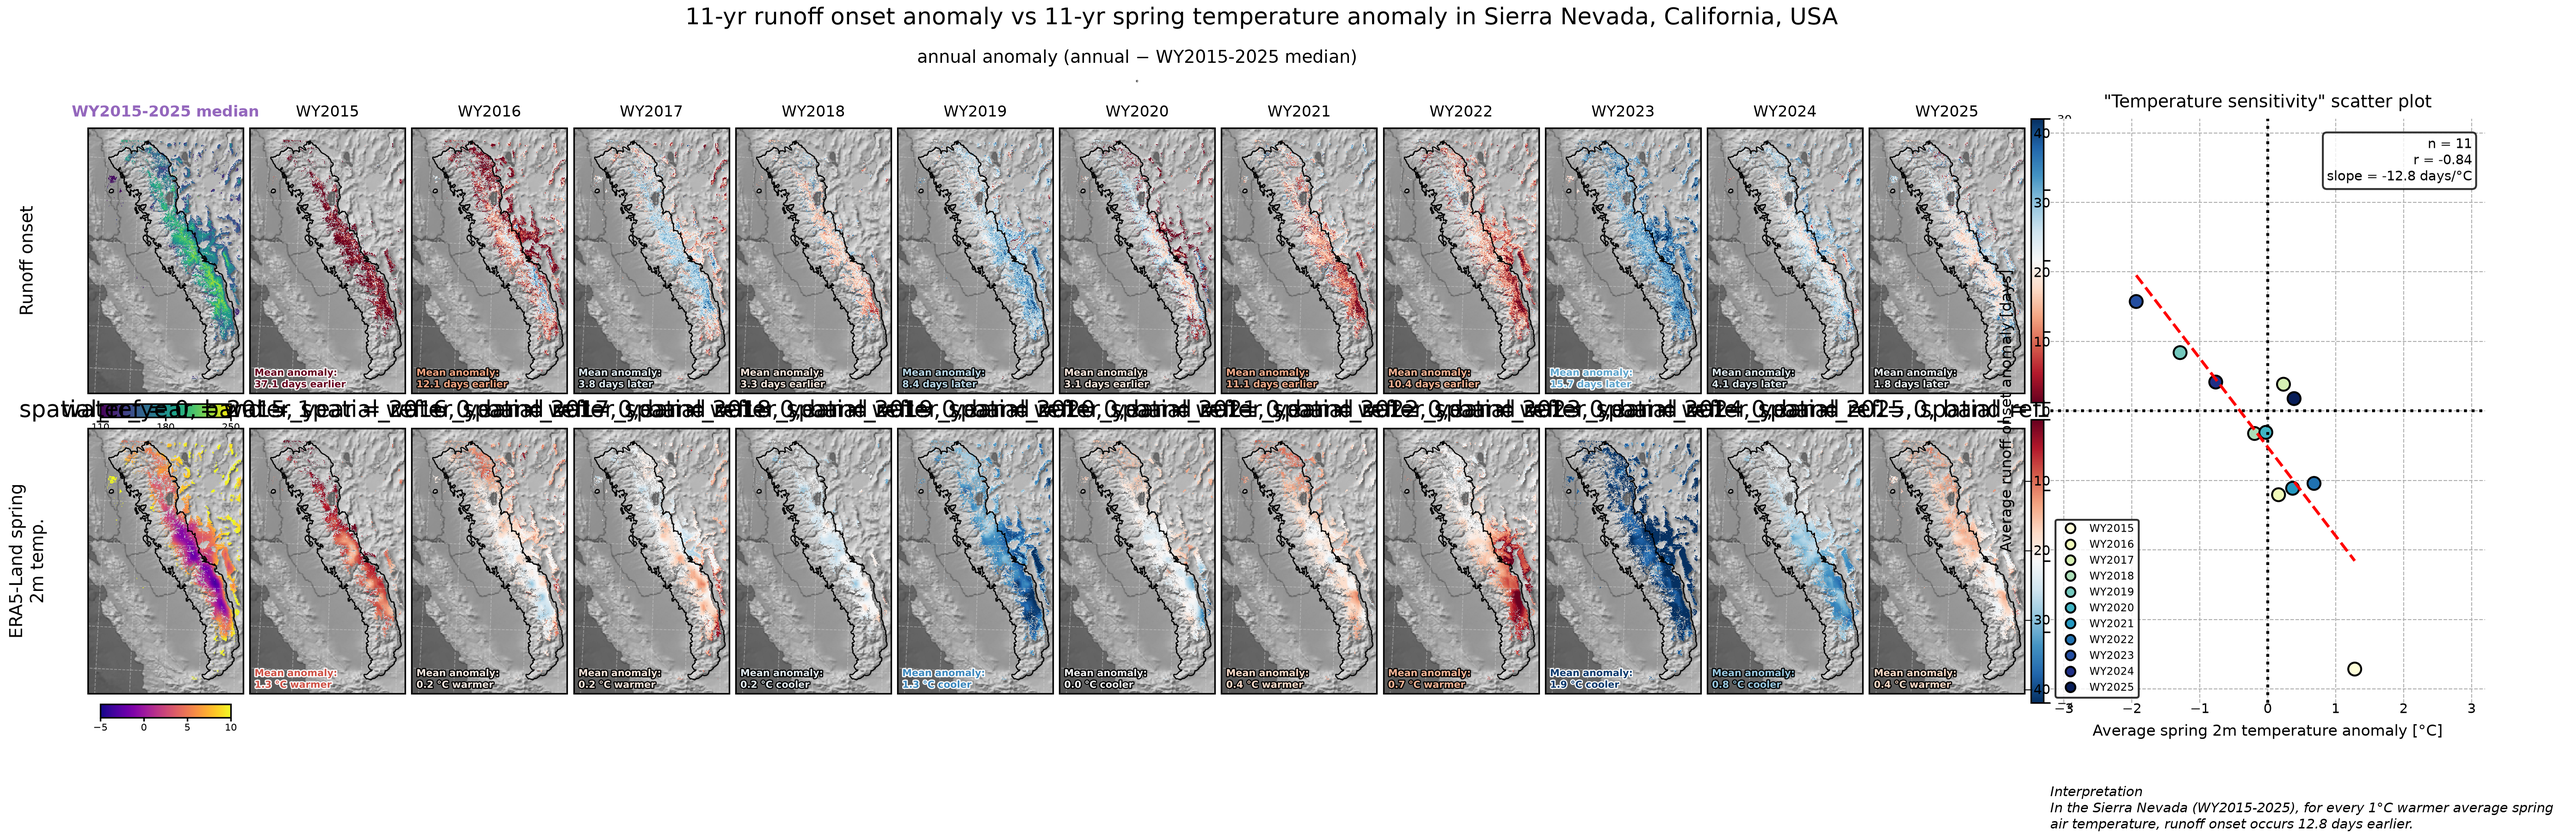
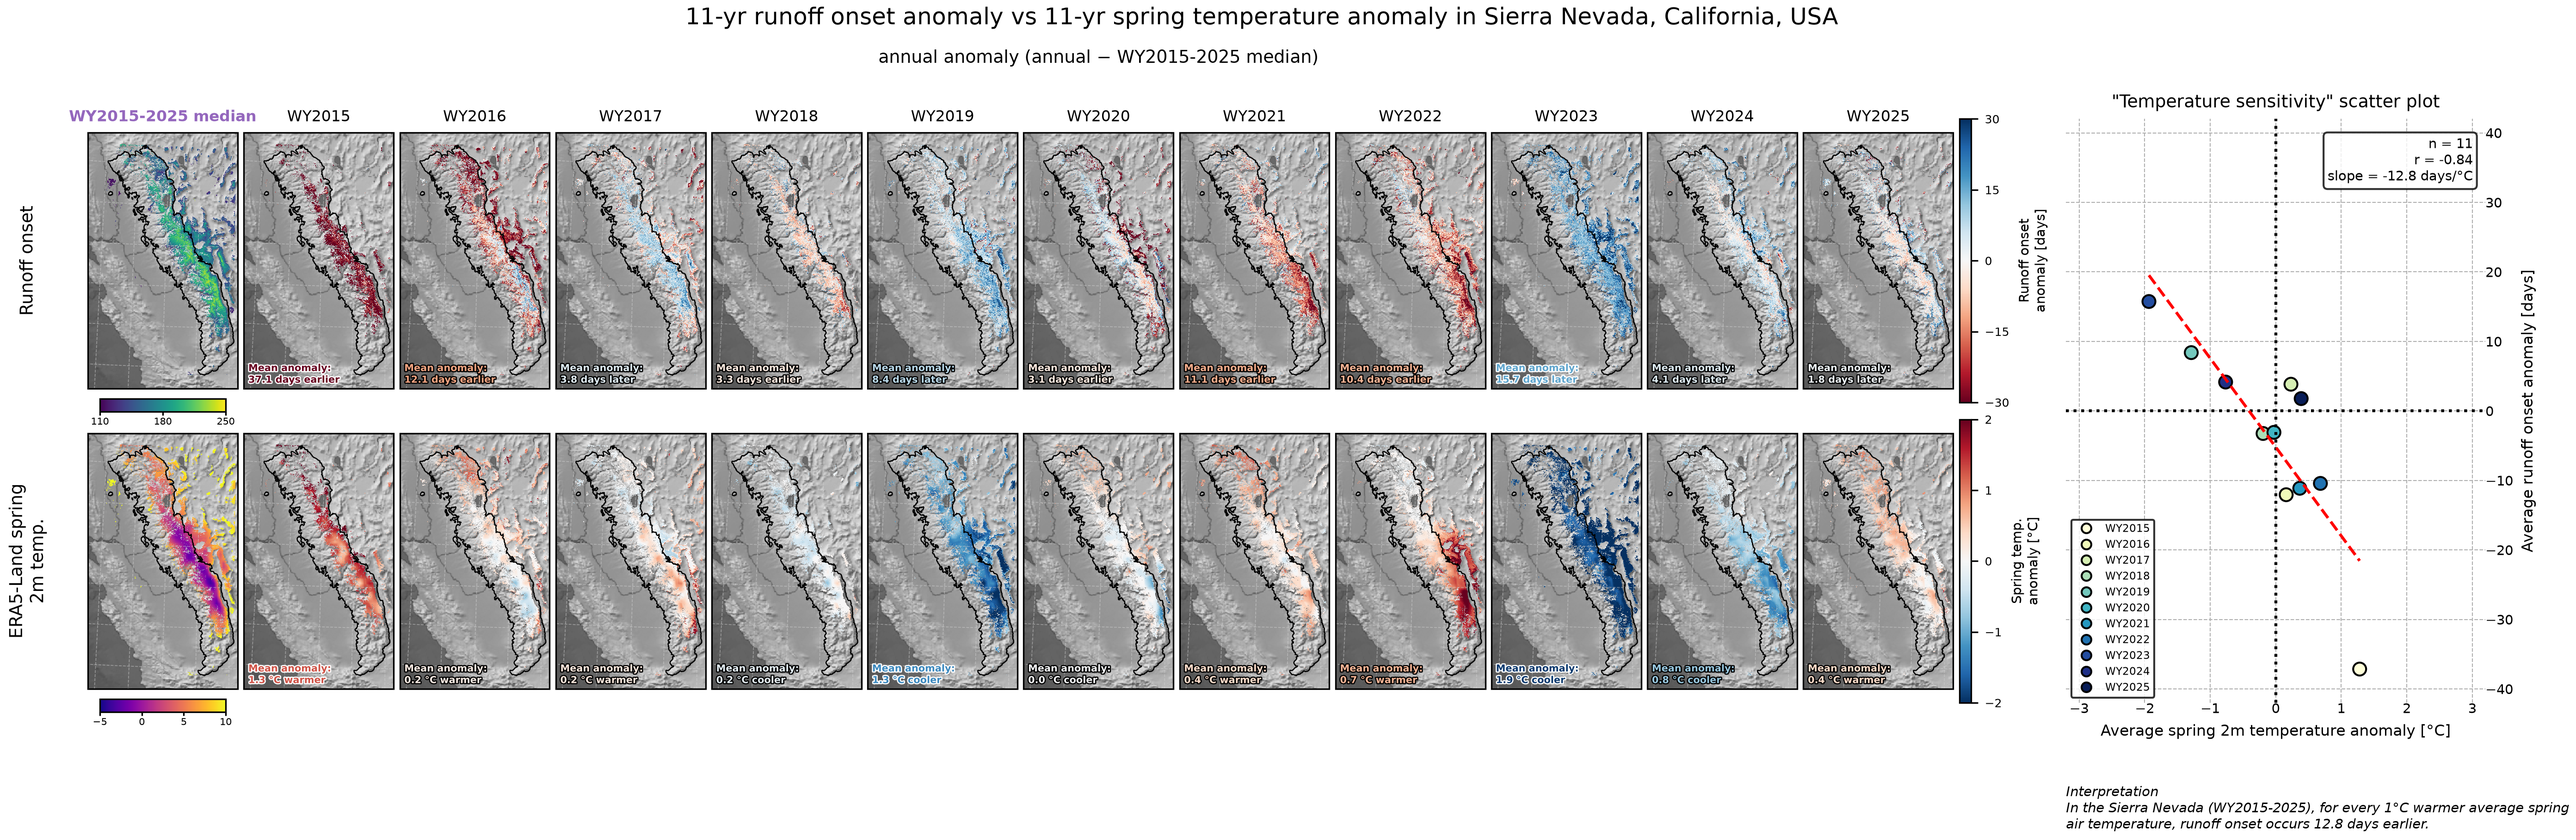
add transient drop fix

diff --git a/gsro_analysis/datacube.py b/gsro_analysis/datacube.py
@@ -78,7 +78,15 @@ def add_dem(tile, ds):
     catalog = pystac_client.Client.open("https://planetarycomputer.microsoft.com/api/stac/v1",
                                         modifier=planetary_computer.sign_inplace)
     search = catalog.search(collections=["cop-dem-glo-30"], intersects=tile.geobox.geographic_extent)
-    dem_da = odc.stac.load(items=search.items(), like=ds, chunks={}, resampling='bilinear')['data'].squeeze()
+    items = list(search.items())
+    if not items:
+        # the source's own definitive no-data signal (build_ancillary_window fills the layer with nodata):
+        # the public GLO-30 release has no tiles over Armenia and Azerbaijan (work-list tiles 29,152 /
+        # 29,153 / 29,154 on 2026-09-04) — such a tile contributes no elevation-binned statistics
+        from rioxarray.exceptions import NoDataInBounds
+        raise NoDataInBounds("Copernicus DEM GLO-30: no STAC items intersect the tile "
+                             "(open water, or the Armenia/Azerbaijan exclusion of the public release)")
+    dem_da = odc.stac.load(items=items, like=ds, chunks={}, resampling='bilinear')['data'].squeeze()
     dem_da = dem_da.rio.write_nodata(-32767, encoded=True).drop_vars('time')
     ds['dem'] = dem_da.compute()
     return ds
@@ -426,6 +434,26 @@ def ancillary_tile_complete(config, row, col, repo=None):
     return (row, col) in completed_ancillary_tiles(config, repo)
 
 
+def _with_transient_retries(fn, *args, log=None, tries=3, delays=(20, 60), **kwargs):
+    """Call a layer fetch, retrying only on the transient failures of the remote catalogs
+    (a Planetary Computer STAC gateway error page, a dropped connection): two of six wave-2
+    batches lost one tile each to a ~03:00 UTC blip on 2026-09-04. Anything else raises at
+    once; after ``tries`` the transient error raises too (failure = no commit)."""
+    import requests
+    import pystac_client.exceptions
+    transient = (pystac_client.exceptions.APIError, requests.exceptions.RequestException,
+                 ConnectionError, TimeoutError)
+    for attempt in range(tries):
+        try:
+            return fn(*args, **kwargs)
+        except transient as e:
+            if attempt == tries - 1:
+                raise
+            delay = delays[min(attempt, len(delays) - 1)]
+            (log or logger.warning)(f"{fn.__name__}: transient {type(e).__name__}, retry {attempt + 2}/{tries} in {delay}s")
+            time.sleep(delay)
+
+
 def build_ancillary_window(config, row, col, mask_nodata=True, log=None):
     """The tile's eight source layers on its window of the DATASET grid (wave 'Get ancillary
     data'). Failure policy (fleet rule: failure = no output, never wrong output): a raster
@@ -464,7 +492,7 @@ def build_ancillary_window(config, row, col, mask_nodata=True, log=None):
         straddles = coverage is not None and (tile_south < coverage[0] or tile_north > coverage[1])
         t0 = time.time()
         try:
-            ds = fn(*args, **kwargs)
+            ds = _with_transient_retries(fn, *args, log=log, **kwargs)
         except NoDataInBounds as e:  # the source's own definitive empty signal
             _fill(layers, f"{fn.__name__}: {e}")
         except Exception as e:

diff --git a/analyses/README.md b/analyses/README.md
@@ -20,7 +20,7 @@ are filtered to what exists in the cube, so a partially processed dataset versio
 | `mountain_ranges/` | `teleconnections` | NOAA PSL ENSO / PDO / PNA indices (online) | `teleconnection_indices.png` |
 | `river_basins/` | `basin_onset` | river-basin cube (HydroBASINS level 5), BasinATLAS level-5 polygons (cached gdb), `data/geometries/Hydrobasins_L5_Population_Global.geojson`, the hillshade, `results/<version>/river_basin_snow_water.csv` if present, the rivers overlay if present | `global_median_runoff_onset_and_mad.png`, `global_runoff_onset_anomaly_by_basin.png`, `{hma,wus}_*` regional panels |
 | `river_basins/` | `snow_water` | river-basin cube, ERA5-Land via Earth Engine (April-1 / October-1 SWE, precipitation-as-snow share) | `results/<version>/river_basin_snow_water.csv` (read by `basin_onset`), SWE / water-volume vs onset scatters |
-| `case_studies/sierra_nevada/` | `sierra_nevada` | the dataset store (4x coarsened), the ERA5-Land store, the hillshade, forest cover (FCF ≤ 50 % masked like the pipeline) | `sierra_nevada_*.png` (median, MAD, anomalies, spring temperature, scatter, legend) and the assembled `sierra_nevada_worked_example.png` |
+| `case_studies/sierra_nevada/` | `sierra_nevada` | the dataset store (4x coarsened), the ERA5-Land store, the hillshade, forest cover (FCF ≤ 50 % masked like the pipeline); peaks at ~12 GB, so run it alone on a 16 GB machine with `MALLOC_ARENA_MAX=2 MALLOC_MMAP_THRESHOLD_=65536 MALLOC_TRIM_THRESHOLD_=65536` (glibc otherwise keeps the freed arrays and the kernel dies) | `sierra_nevada_*.png` (median, MAD, anomalies, spring temperature, scatter, legend) and the assembled `sierra_nevada_worked_example.png` |
 | `climate/` | `pixelwise_climate_correlations` | ERA5-Land store and the public pyramid (Equal Earth derived on the fly) | a correlations zarr under `scratch/` (local, exploratory) |
 | `climate/temperature_sensitivity_comparison/` | `evan_eisenman_2021_comparison` | SNOTEL/CCSS daily archive (self-downloaded into `data/snotel_ccss_archive/`), an ERA5 T₀/T₁ climatology cache (`data/era5/`), `results/<version>/mountain_range_metrics.csv` | `ee2021_*.png` (the recreated figures of Evan & Eisenman 2021), `runoff_onset_sensitivity_vs_ee2021.png`, `results/<version>/evan_eisenman_2021_snotel_station_metrics.csv` |
 
